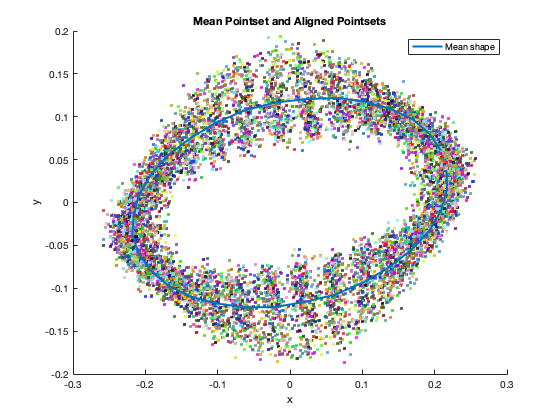
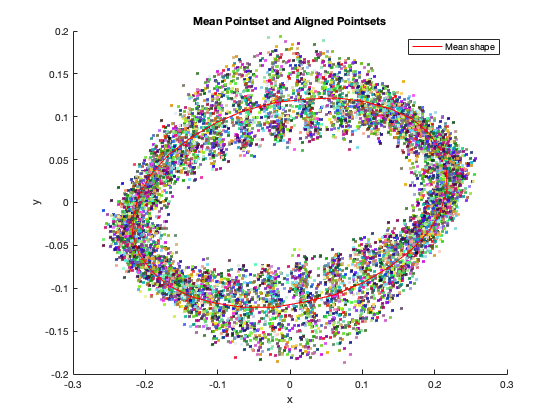
A1-Q1-2 completed

Changed region(s): [[0.1821, 0.0929, 0.85, 0.8667], [0.7286, 0.0929, 0.7893, 0.1238]]

diff --git a/assignmentShapeAnalysis/2/report/myMainScript.html b/assignmentShapeAnalysis/2/report/myMainScript.html
@@ -66,10 +66,10 @@ table td { padding:7px 5px; text-align:left; vertical-align:top; border:1px soli
 
 
 
-  </style></head><body><div class="content"><h2>Contents</h2><div><ul><li><a href="#1">Loading and visualizing the data</a></li><li><a href="#2">Transformation to preshape space</a></li><li><a href="#3">Finding the mean shape by minimizing the L2-norm</a></li><li><a href="#4">Finding eigenvalues and eigenvectors</a></li><li><a href="#5">Visualizing modes of shape variation</a></li></ul></div><h2 id="1">Loading and visualizing the data</h2><pre class="codeinput">data = load(<span class="string">'../data/ellipses2D.mat'</span>);
-N = data.numOfPointSets;
-z = data.pointSets;
-n = data.numOfPoints;
+  </style></head><body><div class="content"><h2>Contents</h2><div><ul><li><a href="#1">Loading and visualizing the data</a></li><li><a href="#2">Transformation to preshape space</a></li><li><a href="#3">Finding the mean shape by minimizing the L2-norm</a></li><li><a href="#4">Finding eigenvalues and eigenvectors</a></li><li><a href="#5">Visualizing modes of shape variation</a></li></ul></div><h2 id="1">Loading and visualizing the data</h2><pre class="codeinput">data = load(<span class="string">'../data/hands2D.mat'</span>);
+z = data.shapes;
+n = size(z,2);
+N = size(z,3);
 
 color = rand(N,3);
 
@@ -120,7 +120,7 @@ xlabel(<span class="string">'x'</span>);
 ylabel(<span class="string">'y'</span>);
 title(<span class="string">'Mean Pointset and Aligned Pointsets'</span>);
 legend(mean_plot, <span class="string">'Mean shape'</span>);
-</pre><pre class="codeoutput">Elapsed time is 0.017135 seconds.
+</pre><pre class="codeoutput">Elapsed time is 0.004215 seconds.
 </pre><img vspace="5" hspace="5" src="myMainScript_03.png" alt=""> <h2 id="4">Finding eigenvalues and eigenvectors</h2><pre class="codeinput">zv = reshape(z,2*n,N); <span class="comment">% vectorisation</span>
 z_c = cov(zv'); <span class="comment">% covariance matrix</span>
 [V,D] = eig(z_c);
@@ -212,10 +212,10 @@ axis <span class="string">square</span>;
 ##### SOURCE BEGIN #####
 %% Loading and visualizing the data
 
-data = load('../data/ellipses2D.mat');
-N = data.numOfPointSets;
-z = data.pointSets;
-n = data.numOfPoints;
+data = load('../data/hands2D.mat');
+z = data.shapes;
+n = size(z,2);
+N = size(z,3);
 
 color = rand(N,3);
 

diff --git a/assignmentShapeAnalysis/2/code/myMainScript.m b/assignmentShapeAnalysis/2/code/myMainScript.m
@@ -1,9 +1,9 @@
 %% Loading and visualizing the data
 
-data = load('../data/ellipses2D.mat');
-N = data.numOfPointSets;
-z = data.pointSets;
-n = data.numOfPoints;
+data = load('../data/hands2D.mat');
+z = data.shapes;
+n = size(z,2);
+N = size(z,3);
 
 color = rand(N,3);
 

diff --git a/assignmentShapeAnalysis/2/code/alignPoinsets.m b/assignmentShapeAnalysis/2/code/alignPoinsets.m
@@ -1,0 +1,11 @@
+function theta = alignPoinsets(z1,z2)
+
+[U,~,V] = svd(z1*z2');
+theta = V*U';
+if det(theta) < 0
+    M = eye(size(U,1));
+    M(end,end) = -1;
+    theta = V*M*U';
+end
+
+end
